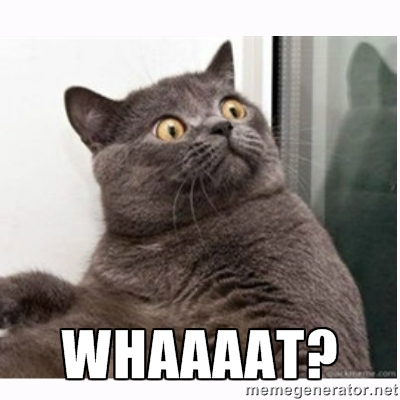
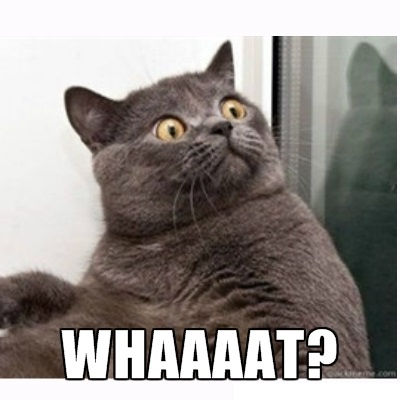
Fixing minor issues

Changed region(s): [[0.6, 0.96, 1.0, 1.0]]

diff --git a/_posts/2015-03-24-AspNet5-project-json.md b/_posts/2015-03-24-AspNet5-project-json.md
@@ -39,7 +39,7 @@ Após selecionar a dependência, quando selecionar a versão note que o intelise
  
 ![passo 4](http://rafael-miceli.com.br/ico/AspNet5-project-json/passo4.png)
  
-Isso é incrível!  
+####Isso é incrível!  
  
 Se você deixar a versão em branco você vai estar usando sempre a última versão deste pacote. 
  
@@ -48,11 +48,11 @@ Neste momento o AspNet está fazendo download, se necessário, das referências.
  
 ![passo 5](http://rafael-miceli.com.br/ico/AspNet5-project-json/passo5.png)
  
-Vamos agora visualizar nossas referências, e você vai ver dois AspNets abaixo de "Refrences" 
+Vamos agora visualizar nossas referências, e você vai ver dois AspNets abaixo de "References" 
  
 ![passo 6](http://rafael-miceli.com.br/ico/AspNet5-project-json/passo6.png)
  
-Eu sei que você deve estar neste momento whaaaat? 
+Eu sei que você deve estar neste momento: WHAAAAT? 
  
 ![What?](http://rafael-miceli.com.br/ico/AspNet5-project-json/catwhat.jpg)
  
